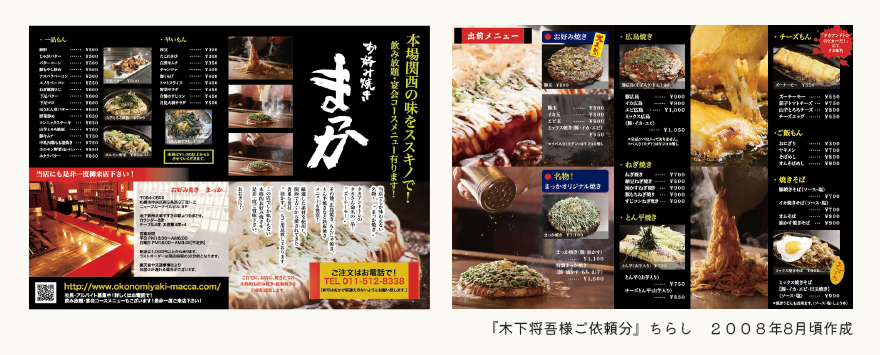
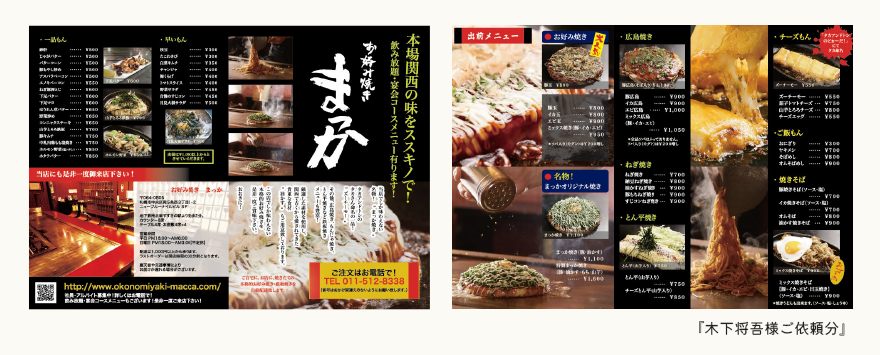
ちょいと修正

Changed region(s): [[0.5523, 0.8986, 0.9818, 0.9606]]

diff --git a/index.html b/index.html
@@ -172,9 +172,8 @@
         <h2 class="section-title en mt-64">DTP Client Works</h2>
 
         <div class="card-grid">
-          <!-- ▼ここに2007年のDTP実務作品を追加していく ▼ -->
 
-          <!-- 例：1件目 -->
+          <!-- dtp_client_01 -->
           <article class="work-card">
             <a href="dtp_client_01/index.html" class="thumb">
               <img src="assets/mockup_DTP01.png" alt="お好み焼きちらし モックアップ">
@@ -184,12 +183,6 @@
               A4仕上がり 8P<br>
               （2008年8月頃制作 実務案件）
             </p>
-            <!-- 
-            <p class="work-desc">
-              レイアウト調整 / 画像差し替え / 入稿データ作成など、
-              DTPオペレーション全般を担当しました。
-            </p>
-             -->
           </article>
 
           <!-- 2件目以降あれば、上のarticleをコピペしてタイトル・テキストだけ差し替え -->

diff --git a/dtp_client_0/index.html b/dtp_client_0/index.html
@@ -46,7 +46,7 @@
 
         <p class="section-kicker">WORKS</p>
 
-        <h1 class="section-title en">お好み屋さん　ちらし</h1>
+        <h1 class="section-title en">⬛タイトル⬛</h1>
         <h2 class="section-subtitle">（A4仕上がり4P）</h2>
 
         <h3 class="detail-category">DTP Client Works</h3>
@@ -58,14 +58,14 @@
             </ul>
 
             <p>
-              関西の味をすすきのへ届ける世界観をビジュアル化。<br>
-              黒と赤の和色と手描きのタッチを掛け合わせ、親しみやすいモダン和風のトーンにまとめています。
+              てきすと<br>
+              てきすと<br>
             </p>
           </div>
         </div>
 
         <figure class="mockup">
-          <img src="../assets/mockup_DTP01.png" alt="モックアップ">
+          <img src="../assets/mockup_DTP0⬛.png" alt="モックアップ">
         </figure>
 
         <div class="note-box">

diff --git a/css/style.css b/css/style.css
@@ -644,7 +644,6 @@ body {
   max-width: 100% !important;      /* 幅制限があった場合に全幅に */
 }
 
-
 /* --------------------------------
    Responsive
 -------------------------------- */
